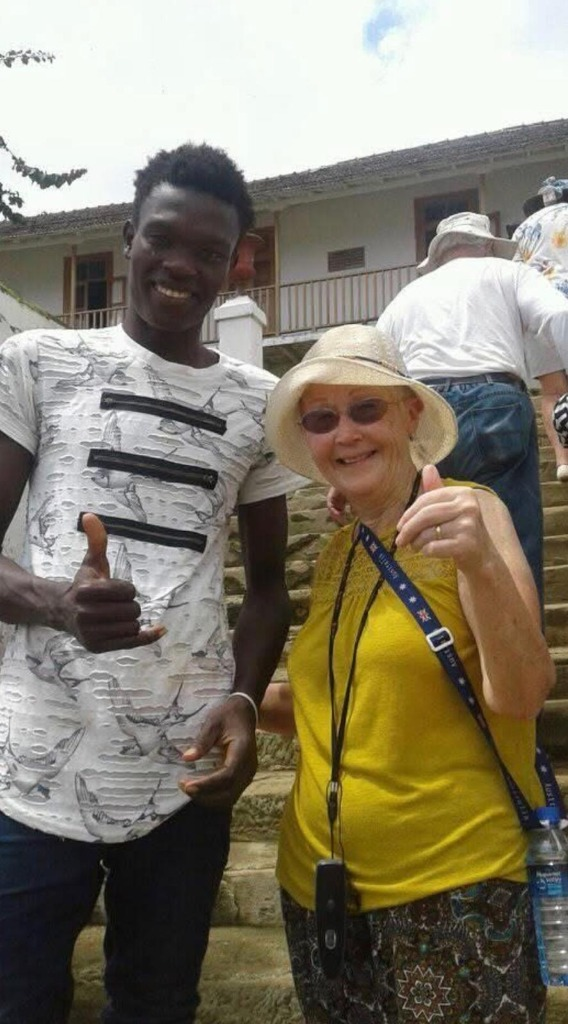
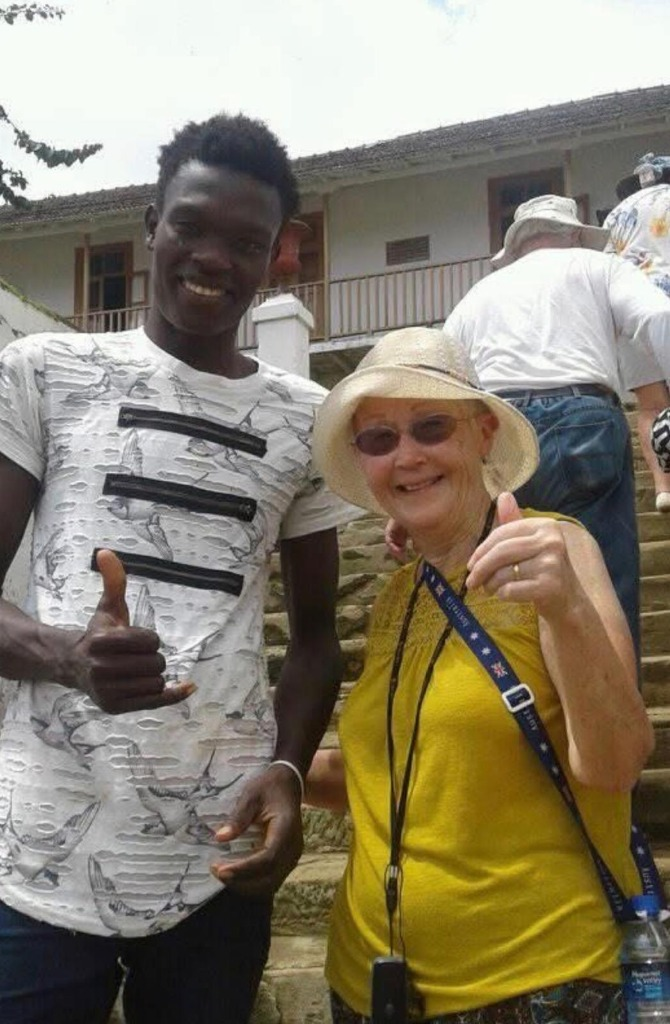
feat: replace real-4.jpg with updated version and adjust object alignment for perfect framing

diff --git a/src/components/about-us.tsx b/src/components/about-us.tsx
@@ -57,7 +57,7 @@ export default function AboutUs() {
                 <img 
                   src="/about/real-4.jpg" 
                   alt="Guia Local e Cliente Feliz em São Tomé" 
-                  className="w-full h-full object-cover"
+                  className="w-full h-full object-cover object-[center_15%]"
                 />
               </div>
             </div>
